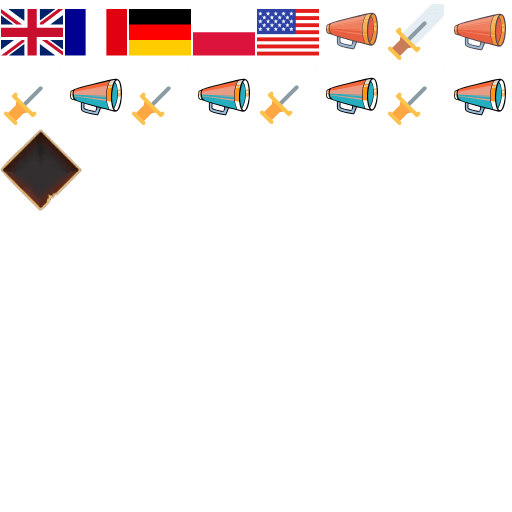
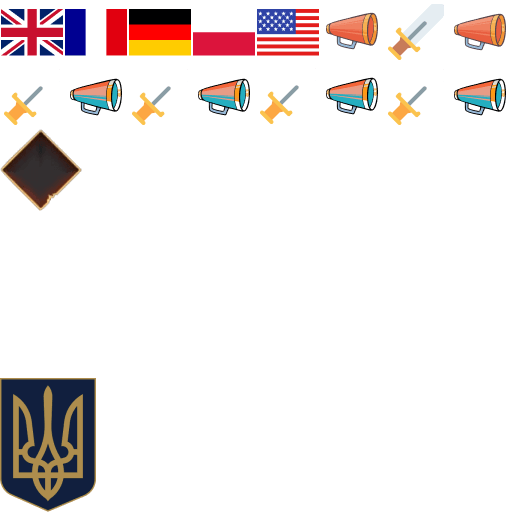
Ukraine emblem

Changed region(s): [[0.0, 0.7188, 0.1875, 1.0]]

diff --git a/source/Gui.cpp b/source/Gui.cpp
@@ -161,12 +161,14 @@ bool Gui::DrawButton(const char* label, v2 pos, ButtonStyle style)
     return is_mouse_over && STATE.window.buttonType == MouseButton::LEFT && STATE.window.buttonAction == MouseAction::RELEASED;
 }
 
-bool Gui::DrawIcon(AtlasTextureInfo info, v2 pos)
+bool Gui::DrawIcon(AtlasTextureInfo info, v2 pos, v2 offset)
 {
     if (!layouts.empty()) {
         Layout& parent = layouts.back();
         parent.PositionChild(pos, info.size * info.scale);
     }
+
+	pos += offset;
 
     auto atlas = RM.GetTexture("icons");
 
@@ -179,12 +181,13 @@ bool Gui::DrawIcon(AtlasTextureInfo info, v2 pos)
 	return is_mouse_over && STATE.window.buttonType == MouseButton::LEFT && STATE.window.buttonAction == MouseAction::RELEASED;
 }
 
-bool Gui::DrawIcon(IconParams icon_params, v2 pos)
+bool Gui::DrawIcon(IconParams icon_params, v2 pos, v2 offset)
 {
     if (!layouts.empty()) {
         Layout& parent = layouts.back();
         parent.PositionChild(pos, icon_params.size * icon_params.scale);
     }
+	pos += offset;
 
     auto icon_size = icon_params.size;
 

diff --git a/source/RenderHelpers.cpp b/source/RenderHelpers.cpp
@@ -64,14 +64,16 @@ void DrawResources()
     megaphone_icon = sword_icon;
 
     megaphone_icon.index = MEGAPHONE;
-    sword_icon.index = SWORD;
+    sword_icon.index     = SWORD;
 
-    auto y = STATE.window.screen_size.y - top_offset;
-    auto x = STATE.window.screen_size.x - 600;
+    //auto y = STATE.window.screen_size.y;
+	u32 y = CenterChildInParentY(GetScreenSize().y - HEADER_H, HEADER_H, sword_icon.size.y);
+    auto x = 10;
 
     UI.Stack(Direction::Horizontal, 10, { x, y });
-		UI.DrawIconAndLabel(sword_icon, std::format("Reserve: {}", STATE.reserve));
-		UI.DrawIconAndLabel(megaphone_icon, std::format("Popular support: {}%", STATE.popular_support));
+		UI.DrawIcon(UKRAINE_EMBLEM, { 0, 0 }, {0, -75});
+	    UI.DrawIconAndLabel(sword_icon, std::format("Reserve: {}", STATE.reserve));
+	    UI.DrawIconAndLabel(megaphone_icon, std::format("Popular support: {}%", STATE.popular_support));
     UI.EndLayout();
 }
 
@@ -196,6 +198,6 @@ void DrawUI() {
 		DrawOblastInfo();
 	UI.EndLayout();
 
-	//DrawResources();
+	DrawResources();
 	DrawTurnUI();
 }

diff --git a/source/Gui.h b/source/Gui.h
@@ -93,8 +93,8 @@ public:
 
 	bool DrawButton(const char* label, v2 pos = { 0, 0 }, ButtonStyle style = DEFAULT_BTN_SYTLE);
 	void DrawLabel(std::string label, u8 max_chars = 0, v2 pos = { 0, 0 }, TextStyle style = default_style, bool use_layout = true);
-	bool DrawIcon(IconParams params, v2 pos = { 0, 0 });
-	bool DrawIcon(AtlasTextureInfo info, v2 pos = { 0, 0 });
+	bool DrawIcon(IconParams params, v2 pos = { 0, 0 }, v2 offset = { 0, 0 });
+	bool DrawIcon(AtlasTextureInfo info, v2 pos = { 0, 0 }, v2 offset = { 0, 0 });
 	void DrawIconAndLabel(IconParams icon_params, std::string label, v2 pos = { 0, 0 }, TextStyle style = default_style);
 };
 

diff --git a/source/Misc.h b/source/Misc.h
@@ -102,6 +102,11 @@ inline void CenterChildInParentY(v2* parent_pos, const v2* parent_size, v2* chil
     child_pos->y = (parent_pos->y + parent_size->y / 2.0) - (child_size->y / 2.0);
 }
 
+inline u32 CenterChildInParentY(u32 parent_y, u32 parent_h, u32 child_h)
+{
+    return (parent_y + parent_h / 2.0) - (child_h / 2.0);
+}
+
 inline void CenterChildInParent(v2* parent_pos, const v2* parent_size, v2* child_pos,
     v2* child_size)
 {

diff --git a/source/Atlas.h b/source/Atlas.h
@@ -11,3 +11,8 @@ constexpr AtlasTextureInfo END_TURN_ICON {
     v2(82.0, 82.0),  //Size
     v2(1.0) 		   // Scale
 };
+constexpr AtlasTextureInfo UKRAINE_EMBLEM {
+    v2(0.0, 512.0), //Pos
+    v2(96.0, 134.0),  //Size
+    v2(1.0) 		   // Scale
+};
